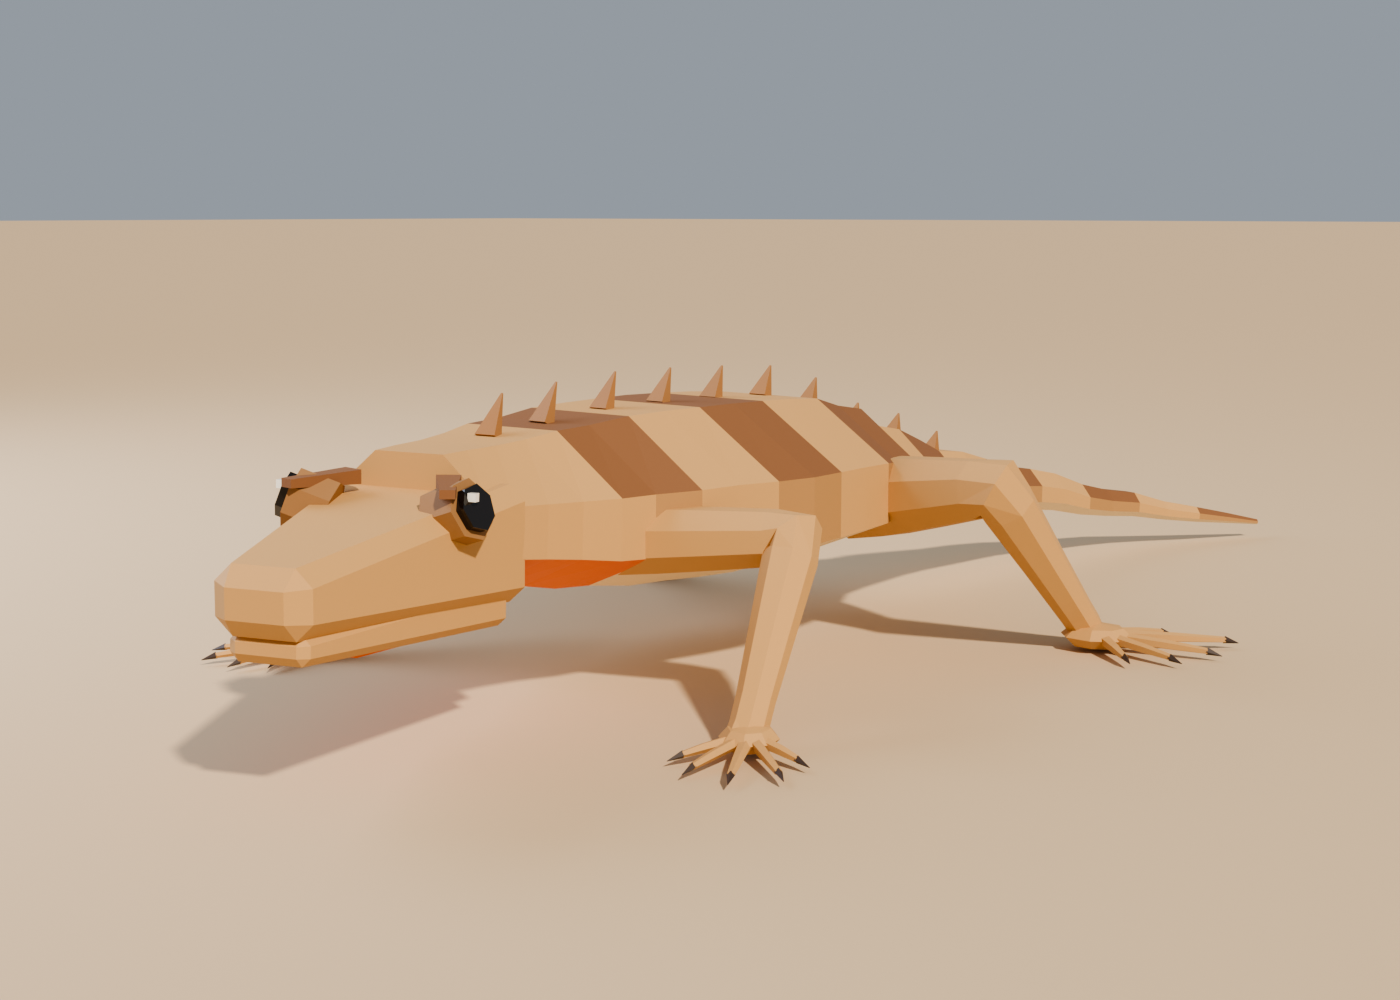
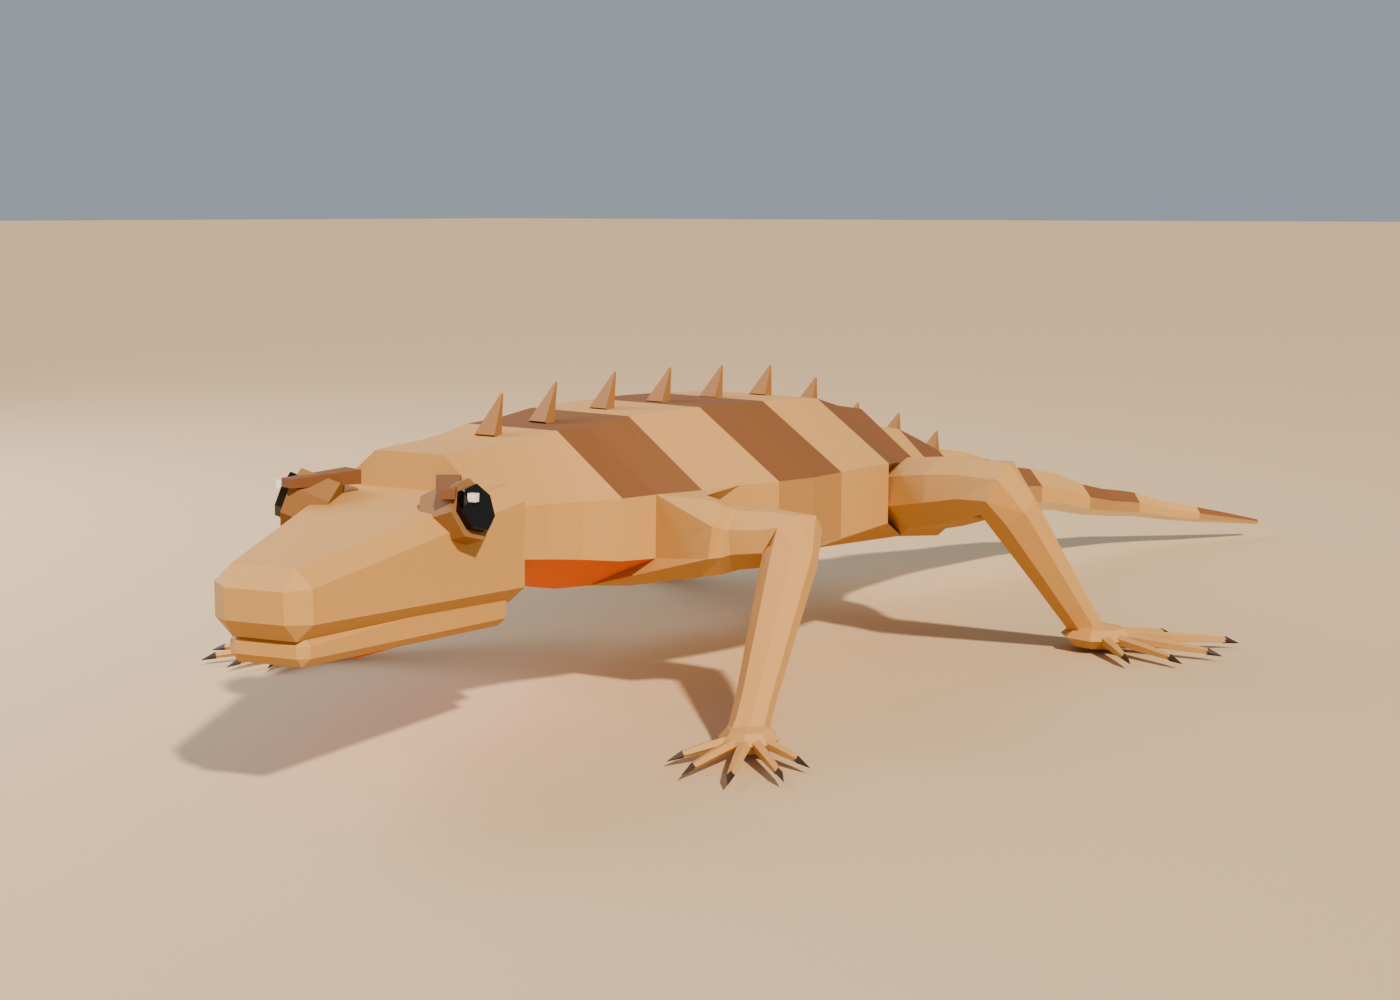
Lizard preview: solid rocks; refresh lizard previews
- Rocks were cracking apart because each face's copy of a shared corner
  got its own random offset; jitter is now keyed by corner position and
  larger stones use one subdivision for rounder boulders
- Hero, pose sheet, walk/run/turn GIFs re-rendered with stitched limbs

Claude-Session: https://claude.ai/code/session_01HgDqots5urJy2cLAWVZ9Aq

diff --git a/demos/sand-lizard-preview/index.html b/demos/sand-lizard-preview/index.html
@@ -249,8 +249,14 @@ const SIZE = 26, SEG = 140;
 const OBST = [];
 const rockMats = [0xb98457, 0x9c6a45, 0xc8976a, 0x87593b].map(c => new THREE.MeshStandardMaterial({ color: c, flatShading: true, roughness: 0.9 }));
 function rock(x, z, r, squash = 0.6, tilt = 0.2) {
-  const g = new THREE.IcosahedronGeometry(r, 0), p = g.attributes.position;
-  for (let i = 0; i < p.count; i++) { const k = 0.82 + srand() * 0.36; p.setXYZ(i, p.getX(i) * k, p.getY(i) * k * squash, p.getZ(i) * k); }
+  // the geometry stores each face's corners separately, so jitter by position: every face sharing a corner
+  // moves it the same way and the stone stays closed (bigger stones get one subdivision for a rounder shape)
+  const g = new THREE.IcosahedronGeometry(r, r > 0.12 ? 1 : 0), p = g.attributes.position, jit = new Map();
+  for (let i = 0; i < p.count; i++) {
+    const key = p.getX(i).toFixed(4) + ',' + p.getY(i).toFixed(4) + ',' + p.getZ(i).toFixed(4);
+    let k = jit.get(key); if (k === undefined) { k = 0.86 + srand() * 0.24; jit.set(key, k); }
+    p.setXYZ(i, p.getX(i) * k, p.getY(i) * k * squash, p.getZ(i) * k);
+  }
   g.computeVertexNormals();
   const m = new THREE.Mesh(g, rockMats[(srand() * rockMats.length) | 0]);
   m.position.set(x, heightAt(x, z) + r * squash * 0.35, z); m.rotation.set((srand() - .5) * tilt, srand() * TAU, (srand() - .5) * tilt);

diff --git a/demos/sand-lizard-preview/template.html b/demos/sand-lizard-preview/template.html
@@ -249,8 +249,14 @@ const SIZE = 26, SEG = 140;
 const OBST = [];
 const rockMats = [0xb98457, 0x9c6a45, 0xc8976a, 0x87593b].map(c => new THREE.MeshStandardMaterial({ color: c, flatShading: true, roughness: 0.9 }));
 function rock(x, z, r, squash = 0.6, tilt = 0.2) {
-  const g = new THREE.IcosahedronGeometry(r, 0), p = g.attributes.position;
-  for (let i = 0; i < p.count; i++) { const k = 0.82 + srand() * 0.36; p.setXYZ(i, p.getX(i) * k, p.getY(i) * k * squash, p.getZ(i) * k); }
+  // the geometry stores each face's corners separately, so jitter by position: every face sharing a corner
+  // moves it the same way and the stone stays closed (bigger stones get one subdivision for a rounder shape)
+  const g = new THREE.IcosahedronGeometry(r, r > 0.12 ? 1 : 0), p = g.attributes.position, jit = new Map();
+  for (let i = 0; i < p.count; i++) {
+    const key = p.getX(i).toFixed(4) + ',' + p.getY(i).toFixed(4) + ',' + p.getZ(i).toFixed(4);
+    let k = jit.get(key); if (k === undefined) { k = 0.86 + srand() * 0.24; jit.set(key, k); }
+    p.setXYZ(i, p.getX(i) * k, p.getY(i) * k * squash, p.getZ(i) * k);
+  }
   g.computeVertexNormals();
   const m = new THREE.Mesh(g, rockMats[(srand() * rockMats.length) | 0]);
   m.position.set(x, heightAt(x, z) + r * squash * 0.35, z); m.rotation.set((srand() - .5) * tilt, srand() * TAU, (srand() - .5) * tilt);
